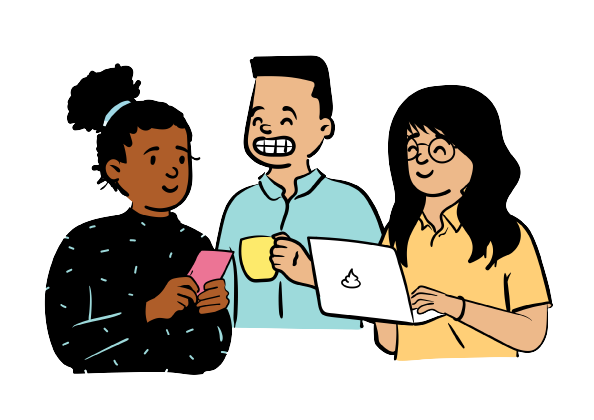
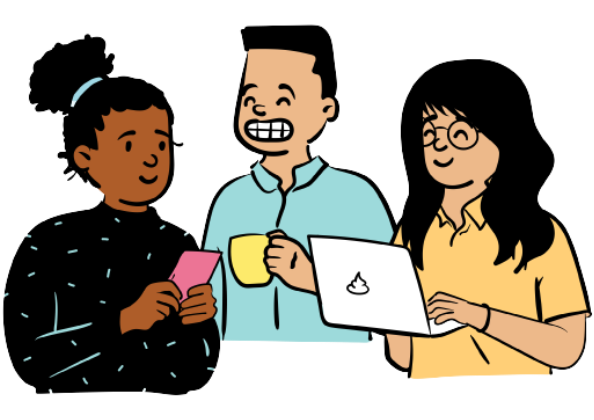
footer

diff --git a/src/components/ContentWrapper.tsx b/src/components/ContentWrapper.tsx
@@ -1,6 +1,4 @@
 import auth from '../firebase/auth';
-import { BsFacebook, BsTwitter, BsYoutube } from 'react-icons/bs';
-import { FaTiktok } from 'react-icons/fa';
 import { FiSettings } from 'react-icons/fi';
 import { useNavigate } from 'react-router-dom';
 import { Routes } from '../enums/route.enums';
@@ -8,8 +6,10 @@ import logo from '../images/logo.png';
 import { IoIosArrowBack, IoIosArrowForward } from 'react-icons/io';
 import ReactTooltip from 'react-tooltip';
 import Modal from 'react-modal';
-import { useContext, useState } from 'react';
+import { useState } from 'react';
 import ModalContent from './ModalContent';
+import phone from '../images/phone.png';
+import googleplay from '../images/googleplay.png';
 
 interface PropsInterface {
     children: JSX.Element | JSX.Element[];
@@ -95,54 +95,48 @@ function ContentWrapper(props: PropsInterface) {
                 <main className="flex-1 px-4 sm:px-8 2xl:px-64">
                     {children}
                 </main>
-                <footer className="px-4 sm:px-8 2xl:px-64 py-8">
-                    <div className="flex justify-between mb-2 items-center">
-                        <p className="text-3xl">
-                            <b>uprev.</b>
-                        </p>
-                        <div className="flex gap-2">
-                            <BsFacebook />
-                            <BsTwitter />
-                            <BsYoutube />
-                            <FaTiktok />
-                        </div>
-                    </div>
-                    <hr className="h-[2px] bg-gray-200" />
-                    <div className="text-[13px] flex min-h-[5rem] text-gray-500">
-                        <div className="w-1/2 mt-5 px-2 border-r-[.5px]">
-                            <p>
-                                <b>What is uprev?</b>
-                            </p>
-                            <p>
-                                Web application for UP students where they can
-                                take and create quizzes
+                <footer className="px-5 sm:px-20 2xl:px-64 py-8 max-[1000px]:rounded-t rounded-t-[150px] bg-gray-100 relative">
+                    <div className="flex max-[1000px]:flex-col items-center">
+                        <div className="max-[1000px]:w-full w-[60%]">
+                            <h2 className="font-bold text-lg mt-5">
+                                What is uprev?
+                            </h2>
+                            <p className="text-sm mt-1">
+                                uprev is a free study app targeted at UP
+                                students. The app hosts student-created quizzes
+                                and flashcards. The idea is that you review your
+                                topics by creating quizzes or flashcards while
+                                helping other students by sharing your
+                                knowledge. Let's review together!
                             </p>
                         </div>
-                        <div className="w-1/2 border-l-[.5px] mt-5 px-2">
-                            <p>
-                                <b>Who are we?</b>
-                            </p>
-                            <p>
-                                Lorem ipsum dolor sit amet consectetur,
-                                adipisicing elit. Delectus sed veniam nam
-                                voluptatum modi fugit nisi dolore earum a
-                                tenetur!
-                            </p>
+                        <div className="max-[1000px]:w-full w-[40%] flex max-[450px]:flex-col-reverse max-[1000px]:flex-row-reverse max-[450px]:items-center items-end justify-end gap-2">
+                            <div className="flex flex-col max-[1000px]:items-center items-end">
+                                <a
+                                    href="https://play.google.com/store/apps/details?id=com.dioskor0.uprev"
+                                    target="_blank"
+                                    rel="noreferrer"
+                                >
+                                    <img
+                                        alt="google play"
+                                        className="max-[550px]:w-[110px] max-[1000px]:w-[160px] w-[110px]"
+                                        src={googleplay}
+                                    />
+                                </a>
+                                <p className="max-[550px]:text-[12px] max-[1000px]:text-lg text-[12px] max-[1000px]:text-left text-right">
+                                    Download us on mobile!
+                                </p>
+                            </div>
+                            <img
+                                alt="uprev mobile app"
+                                className="h-[300px] mt-10 min-[1000px]:-mt-[150px]"
+                                src={phone}
+                            />
                         </div>
                     </div>
-                    <div className="flex justify-between mt-6">
-                        <p className="text-sm text-gray-500">
-                            Developed by dioskor0
-                        </p>
-                        <a
-                            href="https://github.com/ezerssss/uprev"
-                            target="_blank"
-                            className="text-sm text-gray-500"
-                            rel="noreferrer"
-                        >
-                            Want to contribute?
-                        </a>
-                    </div>
+                    <p className="mt-10 text-[12px] text-gray-500">
+                        Developed by dioskor0
+                    </p>
                 </footer>
             </div>
         </>

diff --git a/src/pages/Home.tsx b/src/pages/Home.tsx
@@ -23,7 +23,7 @@ function Home() {
 
     return (
         <>
-            <div className="flex flex-col-reverse flex-col items-center gap-10 2xl:flex-row">
+            <div className="flex flex-col-reverse flex-col items-center justify-between gap-5 2xl:gap-24 2xl:flex-row">
                 <section className="w-full 2xl:w-[40%]">
                     <h1 className="text-[3.2rem] leading-none font-bold my-10 text-center 2xl:text-left">
                         Let's review <br /> together.
@@ -41,7 +41,7 @@ function Home() {
                         ))}
                     </div>
                 </section>
-                <section className="w-full max-w-[600px] 2xl:w-[60%]">
+                <section className="w-full max-w-[600px] 2xl:w-[55%]">
                     <div>
                         <img
                             alt="uprev"

diff --git a/src/pages/CreateQuizPage/CreateQuizPage.tsx b/src/pages/CreateQuizPage/CreateQuizPage.tsx
@@ -223,7 +223,8 @@ function CreateQuizPage() {
 
         const invalidQuestions = questions.find((q) => {
             const isQuestionTitleEmpty = !q.question;
-            const areThereEmptyChoices = q.choices.find((c) => !c)?.length == 0;
+            const areThereEmptyChoices =
+                q.choices.find((c) => !c)?.length === 0;
             const isCorrectAnswerEmpty = !q.answer;
 
             return (

diff --git a/src/components/ModalContent.tsx b/src/components/ModalContent.tsx
@@ -17,7 +17,7 @@ interface PropsInterface {
 function ModalContent(props: PropsInterface) {
     const { handleCloseModal } = props;
 
-    const { subjects, setSubjects } = useContext(ConfigContext);
+    const { setSubjects } = useContext(ConfigContext);
 
     const [picker, setPicker] = useState<PickerConfig[]>([]);
     const [isLoading, setIsLoading] = useState<boolean>(true);
